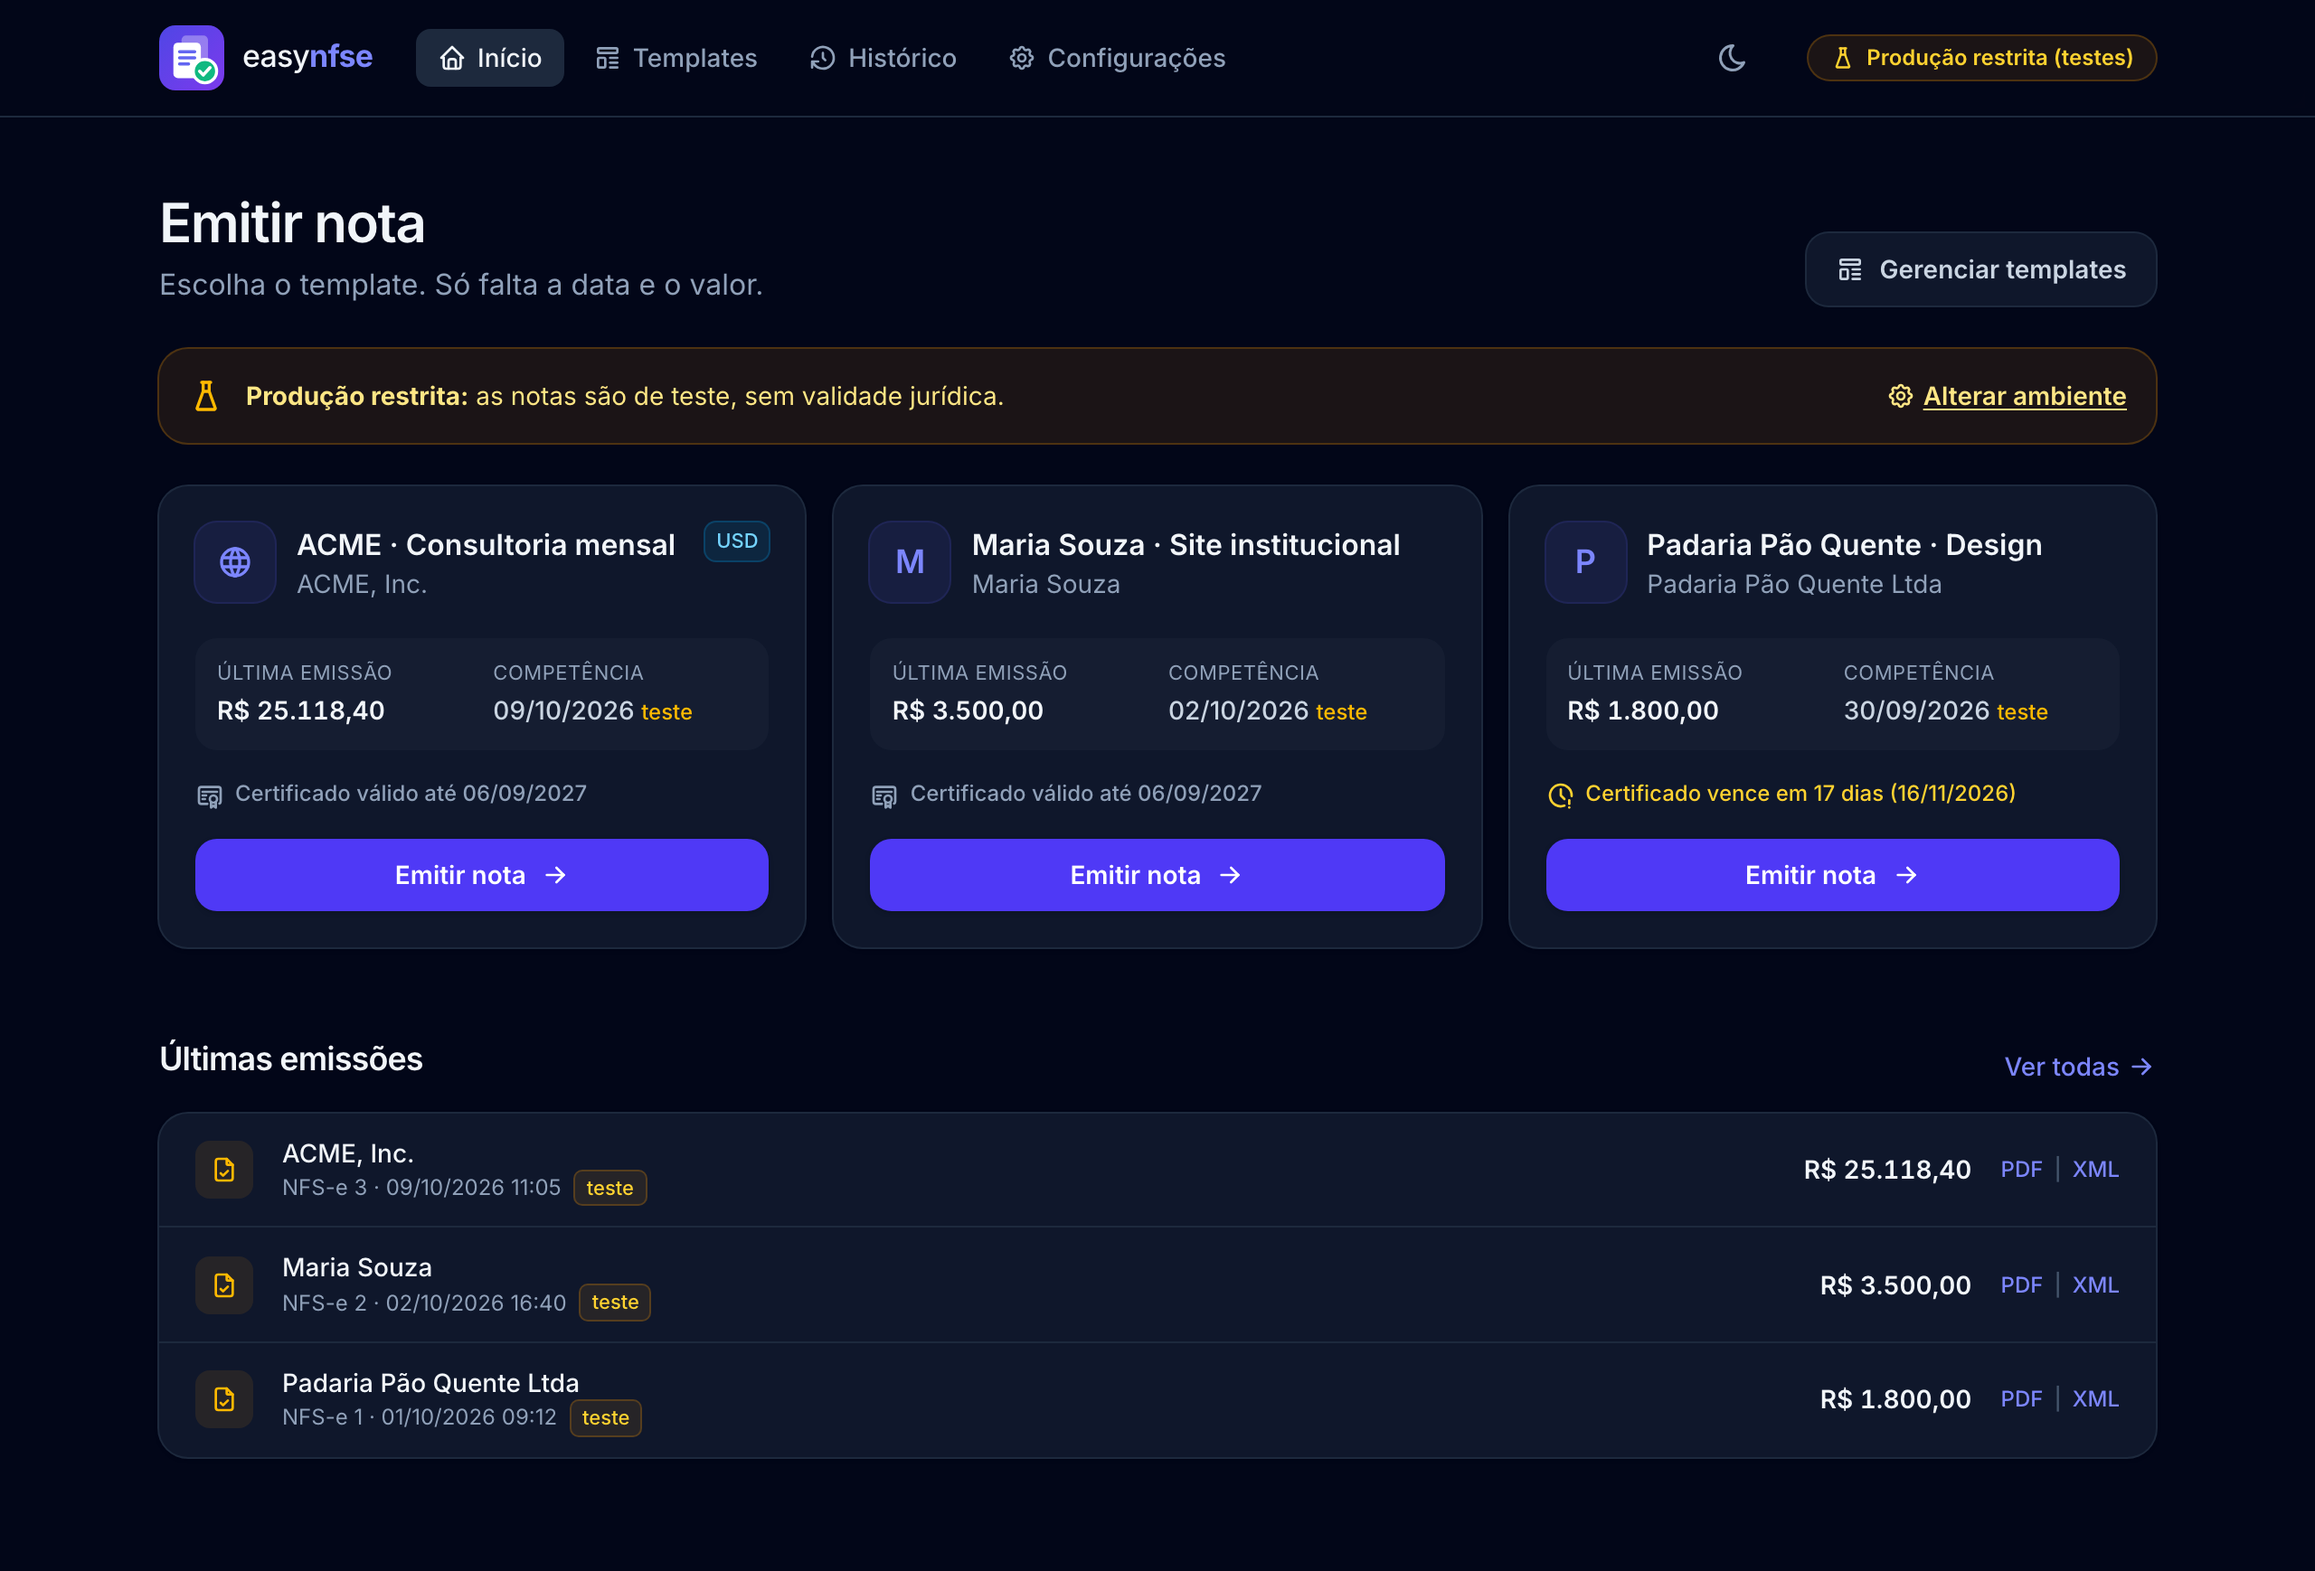
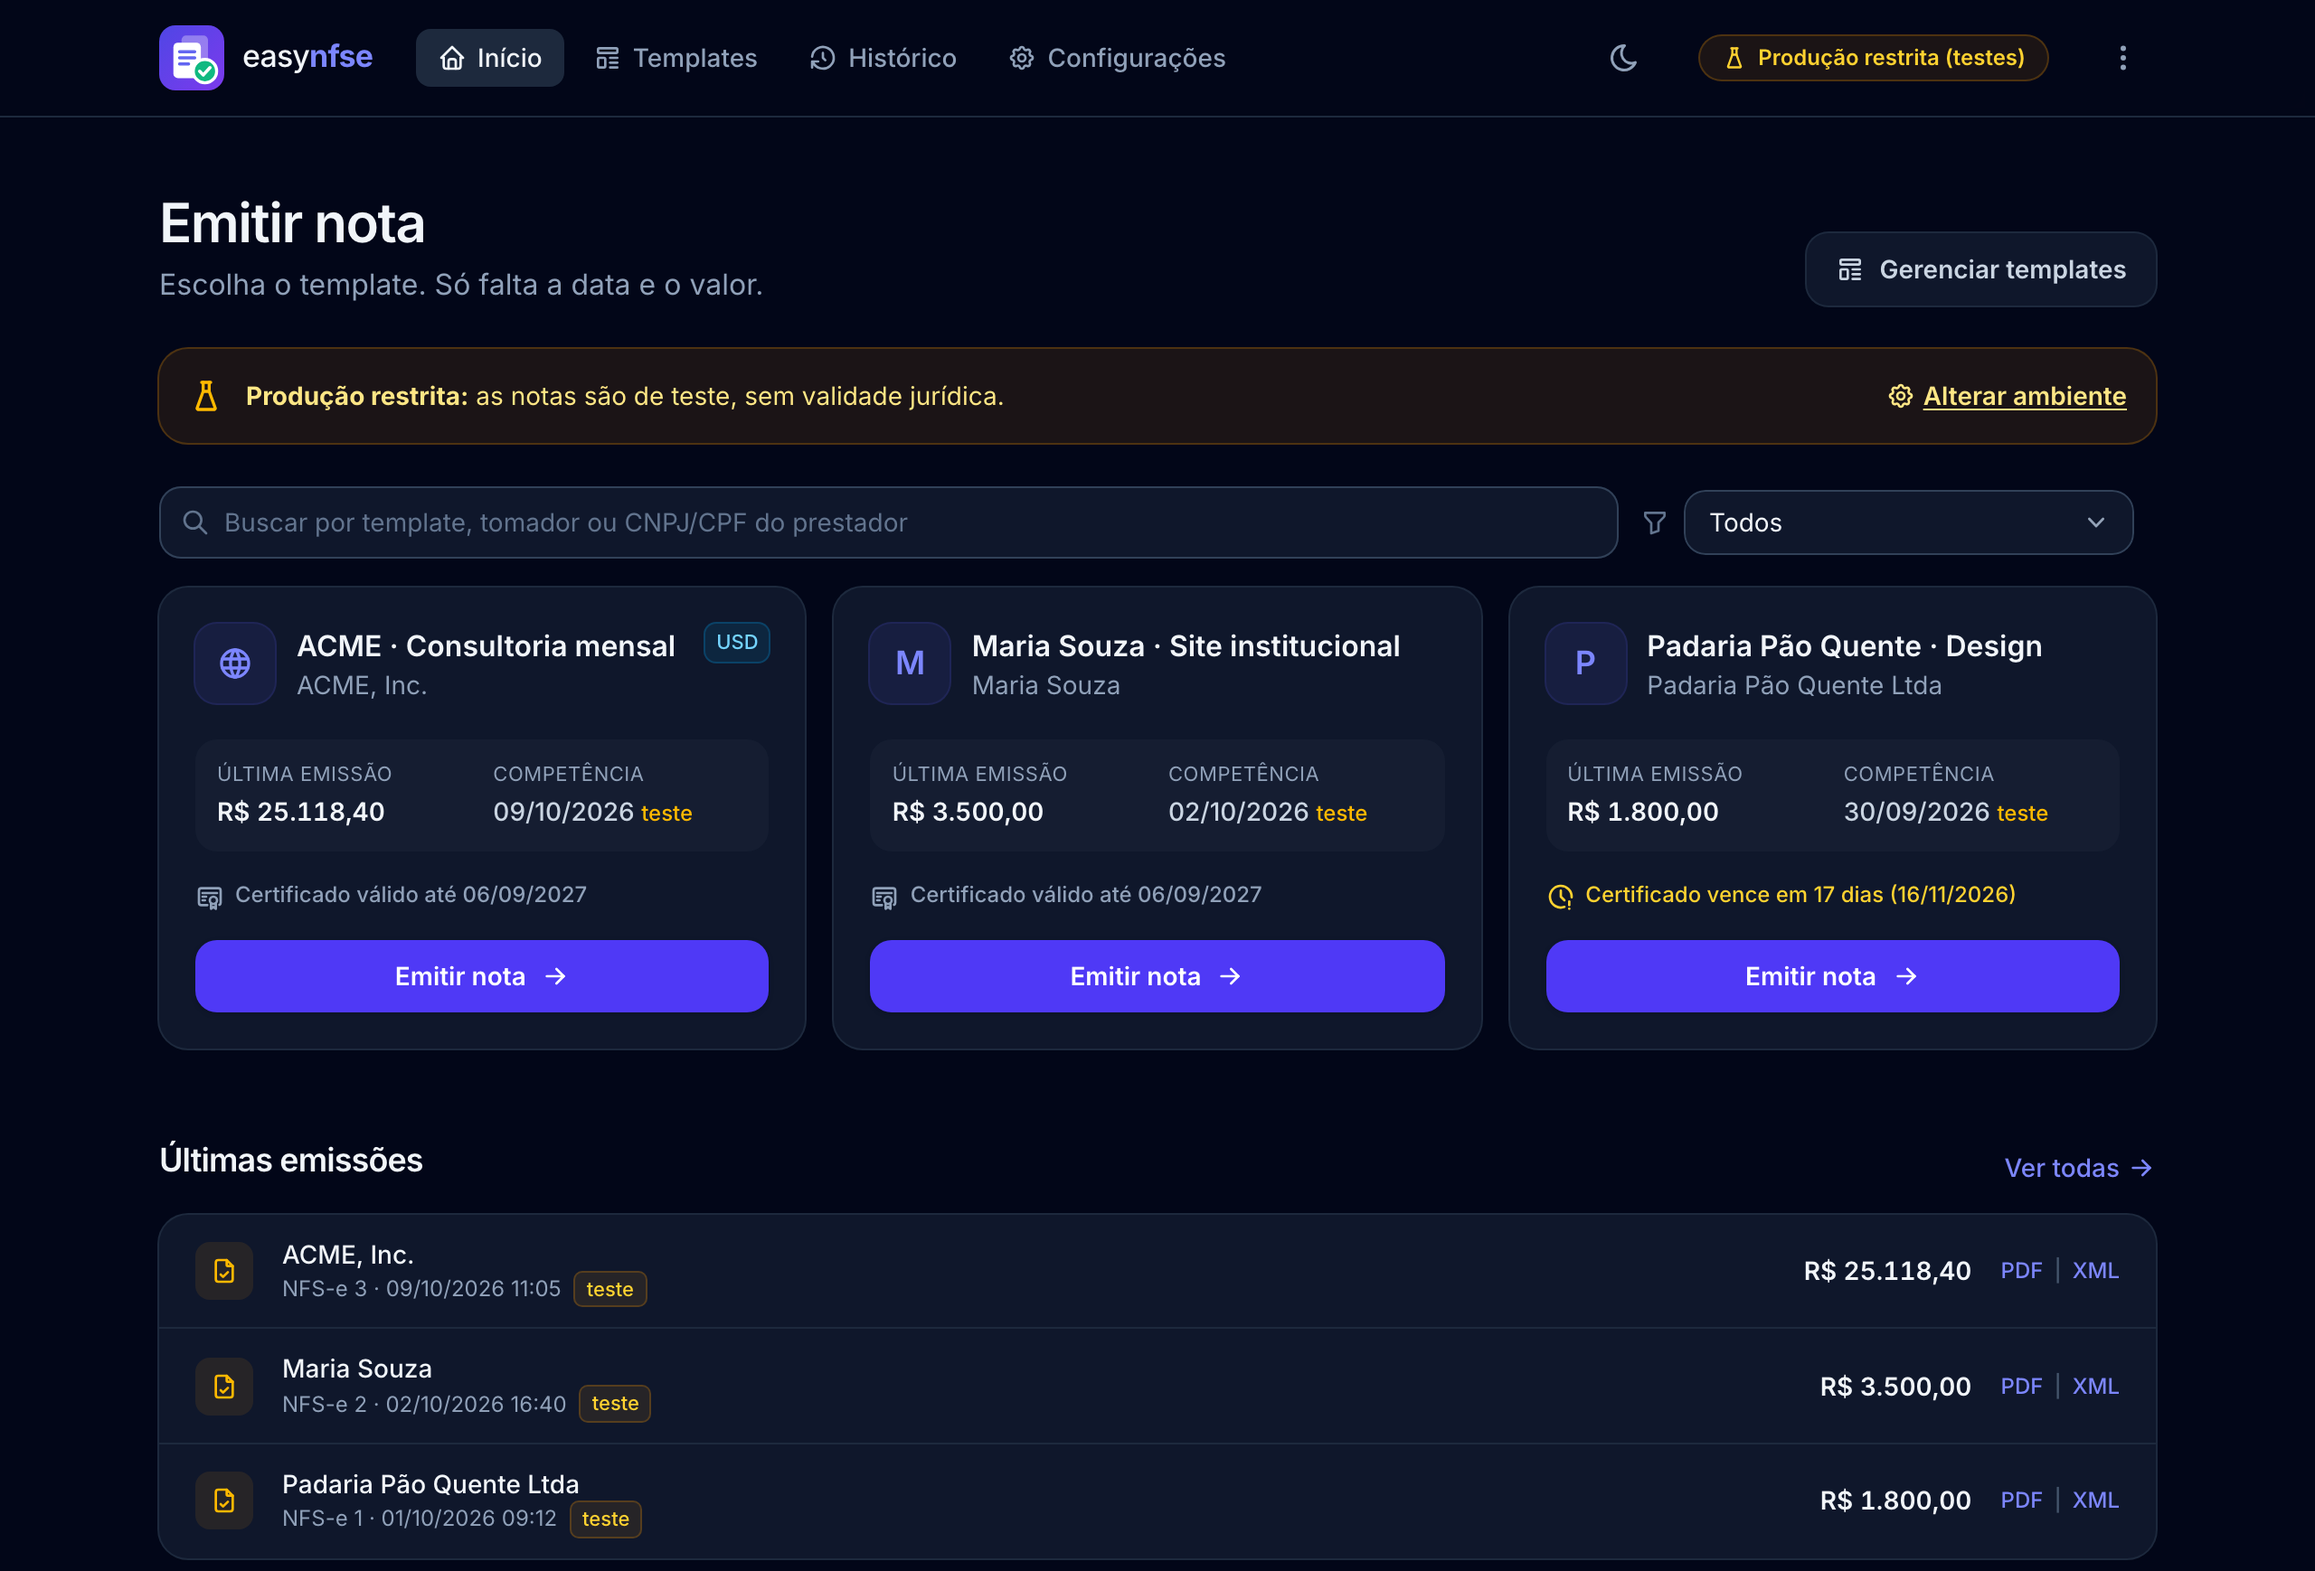
docs: atualizar a captura da tela inicial e citar a atualização automática
A captura mostra o novo menu ⋮ no cabeçalho. Os dados são fictícios.

diff --git a/README.md b/README.md
@@ -28,6 +28,8 @@ quando ele está perto de vencer. A imagem acompanha o tema (claro ou escuro) do
 - **Tomador do exterior e exportação de serviço**, com conversão do valor em moeda estrangeira pela PTAX.
 - Geração do **PDF da nota (DANFSe v2.0)** e histórico das emissões, com download do PDF e do XML.
 - Numeração da DPS automática e protegida contra notas duplicadas.
+- **Atualização automática** do app instalado: baixa a versão nova sozinho, confere a integridade e instala com um
+  clique (ou ao abrir o app). As notas de cada versão ficam no menu ⋮.
 - Tema claro e escuro.
 
 ## Requisitos
